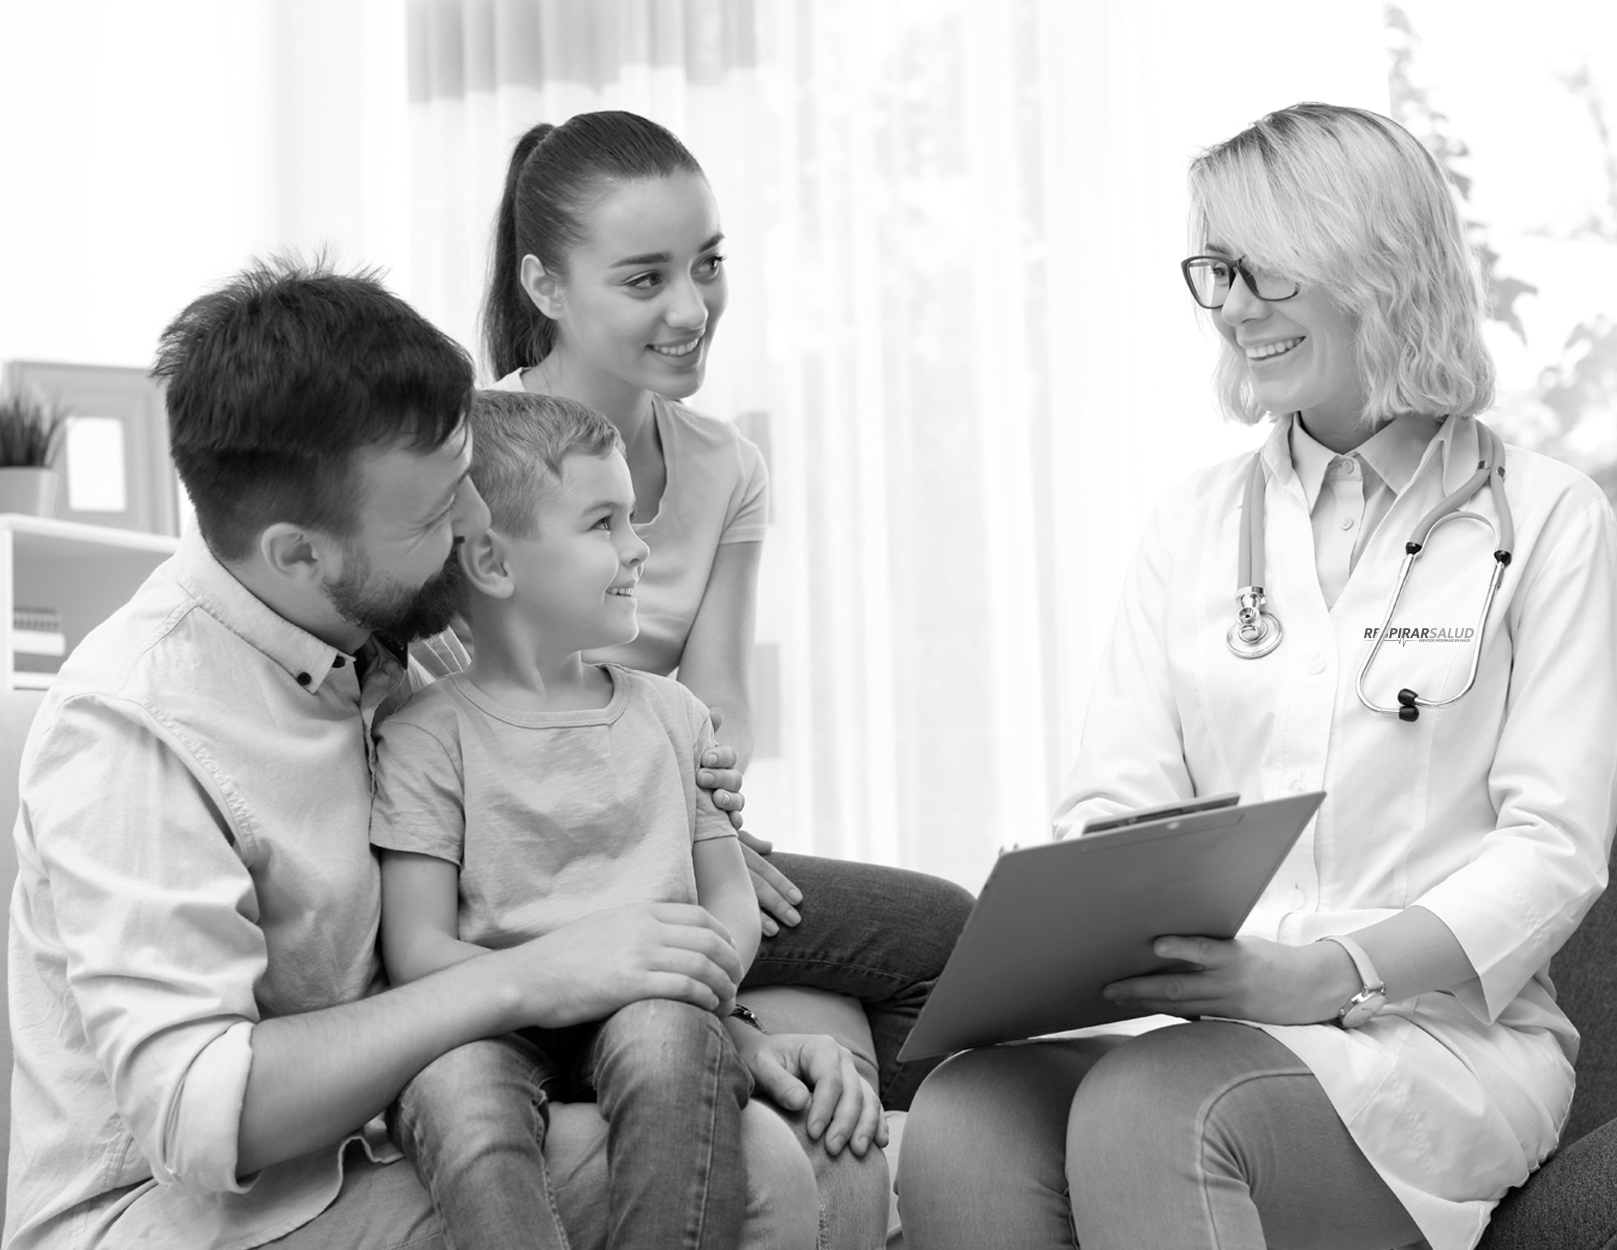
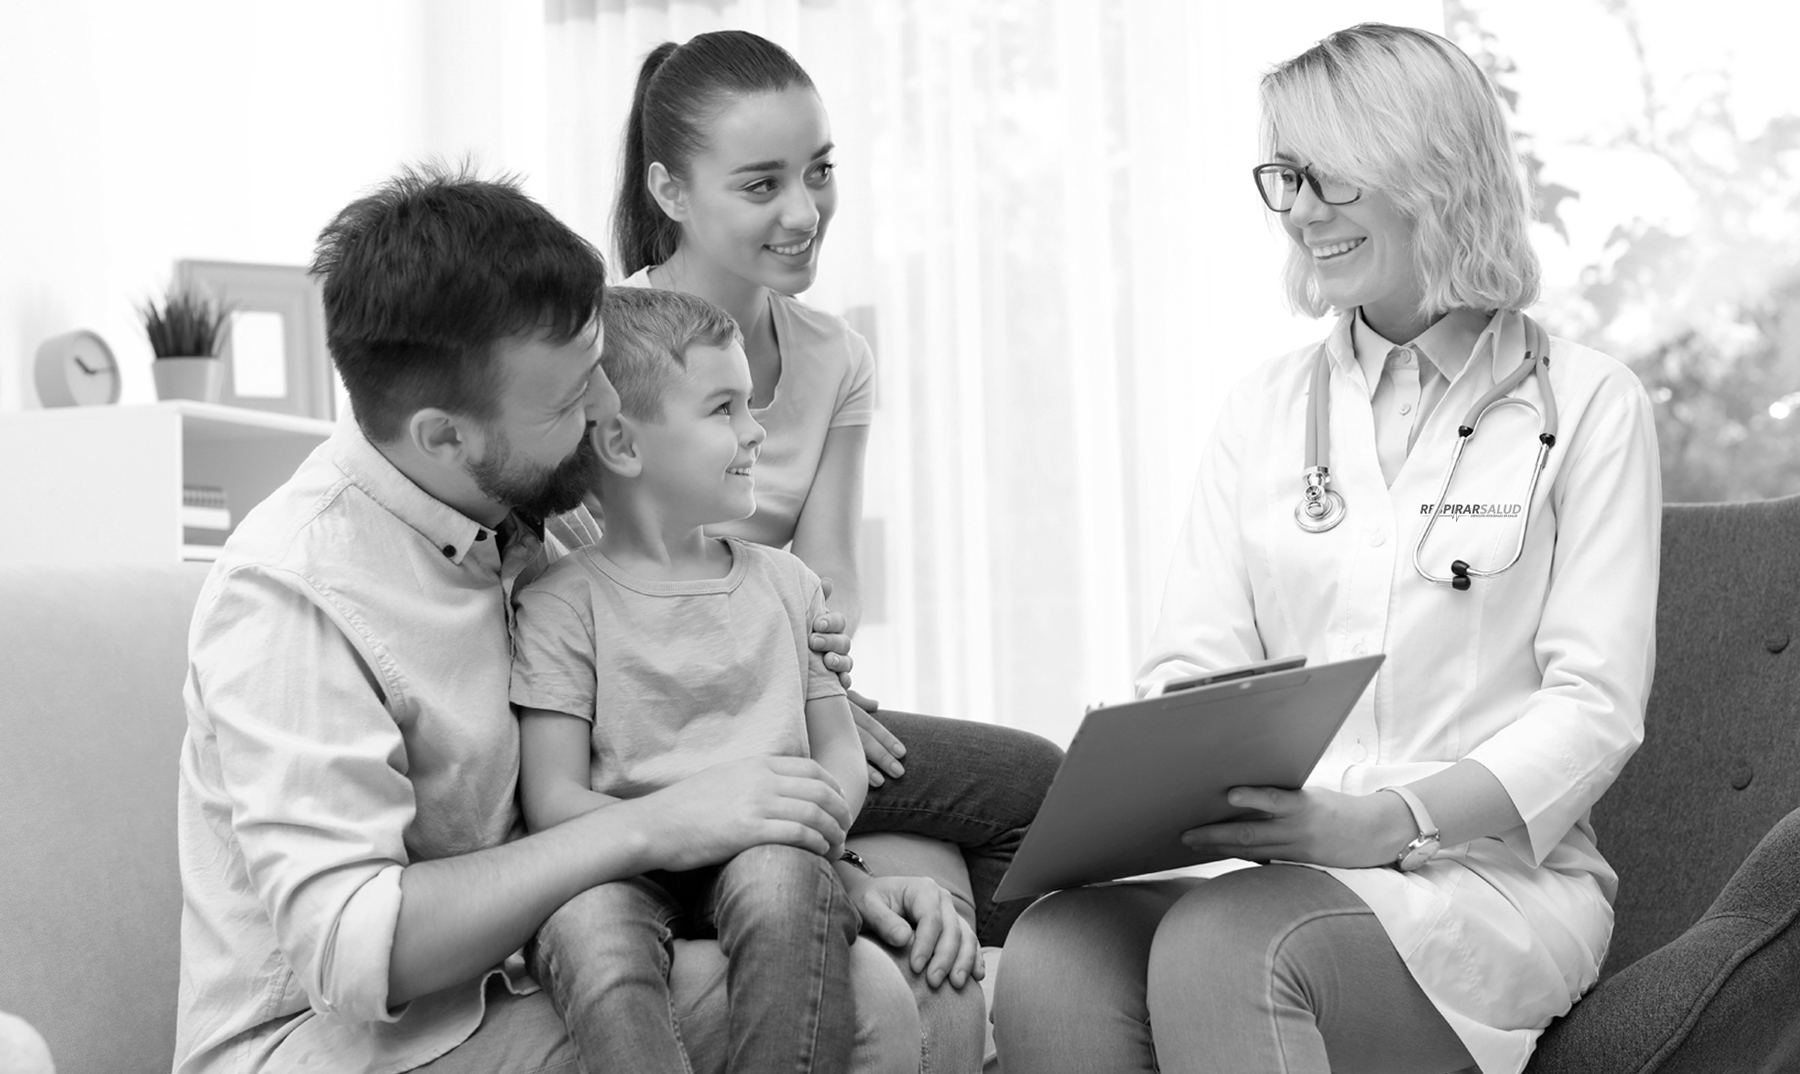
cambio de imágenes

diff --git a/content.php b/content.php
@@ -34,14 +34,14 @@
                 </span>
             </div>
             <div class="Slide-Item">
-                <img src="<?php echo get_template_directory_uri() . '/images/portafolio_1.png' ?>"  alt="background" class="Slide-Item-Background gray-scale">
+                <img src="<?php echo get_template_directory_uri() . '/images/portafolio_1.jpg' ?>"  alt="background" class="Slide-Item-Background gray-scale">
                 <span class="Slide-Item-Complement Leyend">
                     <h2>SALUD KIDS</h2>
                     <p>Para las atenciones de todos los niños, niñas y adolescentes hasta los 14 años, Respirar salud, cuenta con atención médica domiciliaria, por medio de profesionales especializados en pediatría, quienes, valoran, diagnostican y realizan seguimientos, desde la comodidad de su hogar.</p>
                 </span>
             </div>
             <div class="Slide-Item">
-                <img src="<?php echo get_template_directory_uri() . '/images/Portafolio_8.png' ?>"  alt="background" class="Slide-Item-Background gray-scale">
+                <img src="<?php echo get_template_directory_uri() . '/images/Portafolio_8.jpg' ?>"  alt="background" class="Slide-Item-Background gray-scale">
                 <span class="Slide-Item-Complement Leyend">
                     <h2>ENFERMERÍA</h2>
                     <p>Nuestro personal de enfermería está capacitado para manejo de actividades básicas como asistencia alimentaria, cuidados y aseo de la piel, procedimientos menores, cambios de sonda, cateterismos intermitentes, curaciones de baja, mediana y alta complejidad, aplicación de medicamentos y amplia experiencia en pacientes en condición aguda y crónica a nivel Domiciliaria.</p>
@@ -105,7 +105,7 @@
         </div>
     </div>
 </section>
-<section id="Services" class="Services Over" style="background-image: url( <?php echo get_template_directory_uri() . '/images/nuestros_servicios.png' ?> )">
+<section id="Services" class="Services Over" style="background-image: url( <?php echo get_template_directory_uri() . '/images/nuestros_servicios.jpg' ?> )">
     <div class="Section-Container" >
         <section class="Description hide">
             <div class="Descripcion-Control">
@@ -317,7 +317,7 @@ $last_posts = get_posts(array('posts_per_page' => 3, 'cat=2,3,4'));
                 </div>
             </div>
             <div class="Ver-Mas">
-                <a href="<?php get_permalink(get_page_by_path('noticias')->ID); ?>" class="text-green">Ver más</a>
+                <a href="/noticias/" class="text-green">Ver más</a>
             </div>
     
         </div>

diff --git a/header.php b/header.php
@@ -24,7 +24,7 @@
             "name" : "Respirar Salud",
             "image" : "https://respirarsalud.com/wp-content/themes/respirar-salud-wordpress-theme/images/logo_blanco.svg",
             "telephone" : [ 
-                "(+57) (1) 6401283", 
+                "(+57) (1) 6401324", 
                 "(+57) 318 782 5748" 
             ],
             "email" : "center@respirarsalud.com",
@@ -42,7 +42,7 @@
             "image" : "https://respirarsalud.com/wp-content/themes/respirar-salud-wordpress-theme/images/logo_blanco.svg",
             "email" : "center@respirarsalud.com",
             "telephone" : [ 
-                "(+57) (1) 6401283", 
+                "(+57) (1) 6401324", 
                 "(+57) 318 782 5748" 
             ],
             "address" : {
@@ -59,7 +59,7 @@
             "image" : "https://respirarsalud.com/wp-content/themes/respirar-salud-wordpress-theme/images/logo_blanco.svg",
             "email" : "center@respirarsalud.com",
             "telephone" : [ 
-                "(+57) (1) 6401283",
+                "(+57) (1) 6401324",
                 "(+57) 318 782 5748" 
             ],
             "address" : {
@@ -75,7 +75,7 @@
             "image" : "https://respirarsalud.com/wp-content/themes/respirar-salud-wordpress-theme/images/logo_blanco.svg",
             "email" : "center@respirarsalud.com",
             "telephone" : [ 
-                "(+57) (1) 6401283", 
+                "(+57) (1) 6401324", 
                 "(+57) 318 782 5748" 
             ],
             "address" : {

diff --git a/navbar.php b/navbar.php
@@ -39,7 +39,7 @@
                         <img src="<?php echo get_template_directory_uri() . '/images/icons/llamanos_ya.svg' ?>" alt="llamanos ya">
                     </span>
                     <span class="Call-Title">Llamanos ya!</span> 
-                    <span class="Call-Complement">: (+57) (1) 640 1283</span>
+                    <span class="Call-Complement">: (+57) (1) 6401324</span>
                 </a>
             </div>
         </div>

diff --git a/footer.php b/footer.php
@@ -94,7 +94,7 @@
                         </span>
                     </a>
                     <span class="line-text">
-                        <span class="text-green">(+57) (1)</span> 6401283
+                        <span class="text-green">(+57) (1)</span> 6401324
                     </span>
                 </div>
                 <br>

diff --git a/noticias.php b/noticias.php
@@ -22,7 +22,7 @@ get_header(); ?>
     <div class="Content">
         <div class="Title">
             <h1>Noticias</h1>
-            <p>Enterate de nuestras últimas noticias e innovaciones</p>
+            <p>Entérate de nuestras últimas noticias e innovaciones</p>
         </div>
 
         <section class="Tags">
